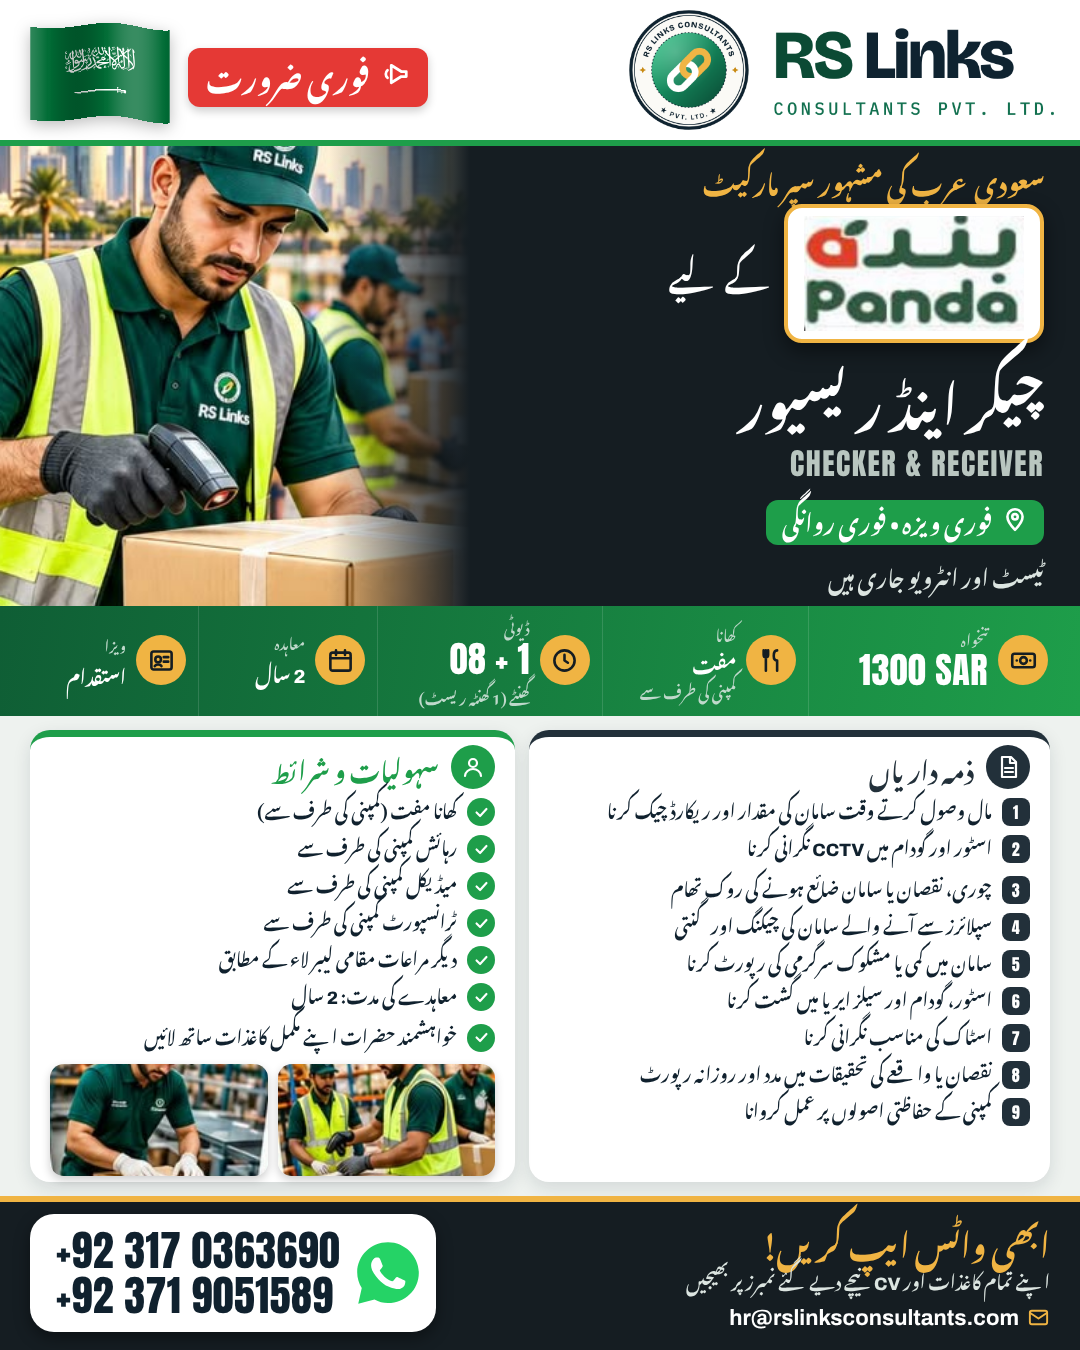
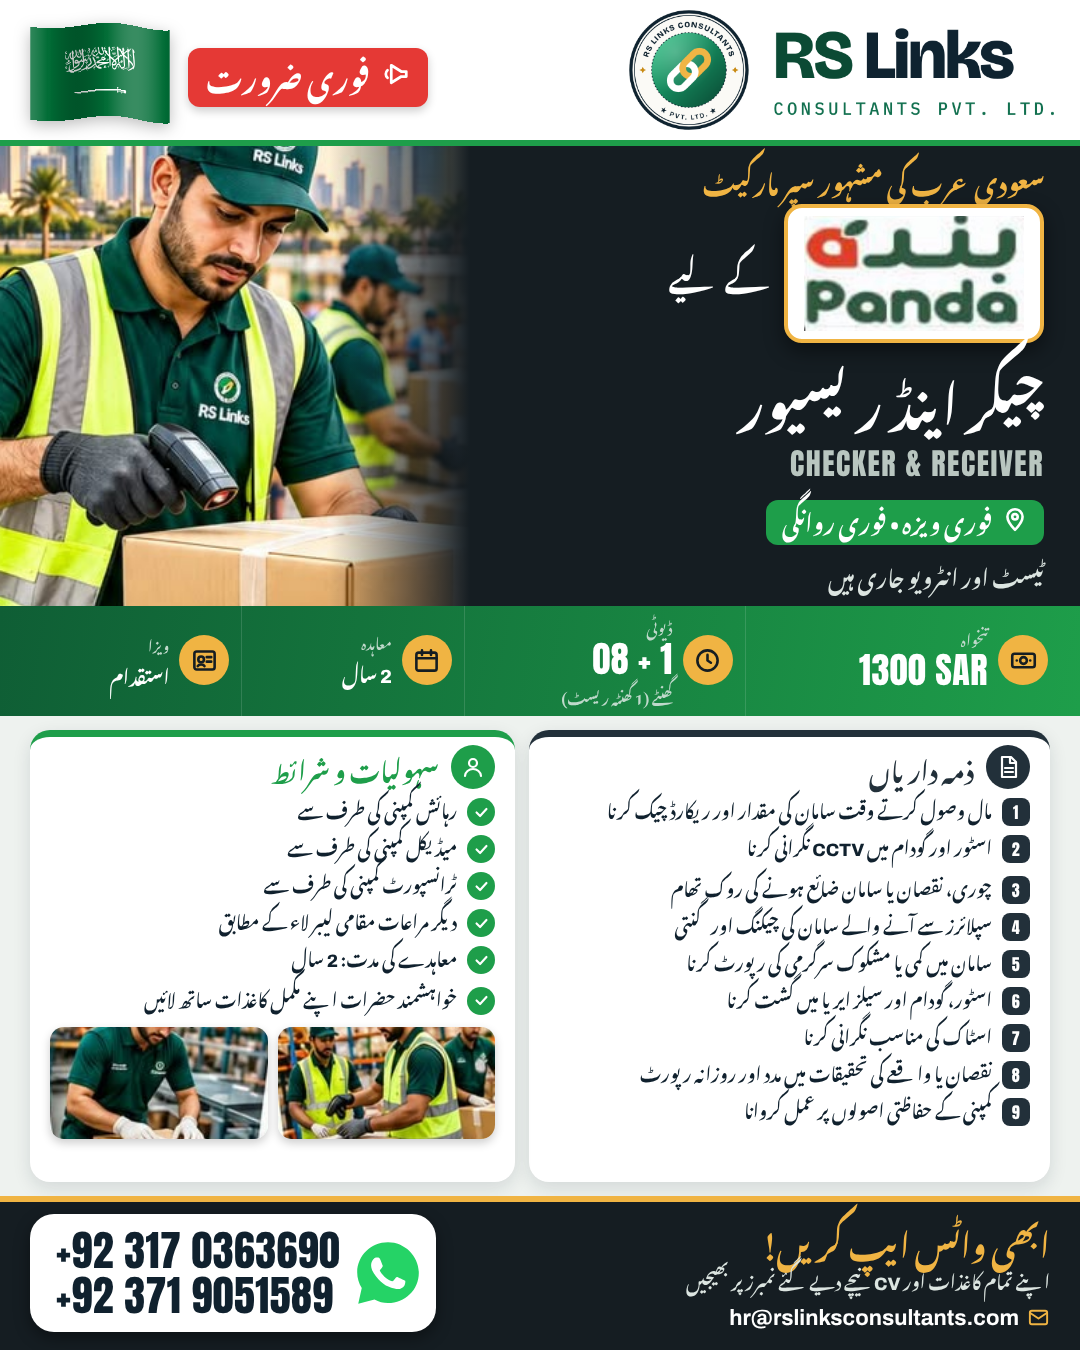
Panda Checker & Receiver ad: remove food
Claude-Session: https://claude.ai/code/session_01YJ5ofgU8QCiWTsYR9pvXG4

Changed region(s): [[0.0306, 0.5911, 0.4583, 0.8711], [0.2444, 0.4667, 0.7333, 0.5289], [0.0611, 0.4667, 0.2139, 0.5289]]

diff --git a/src/data/saudi_checker_receiver.py b/src/data/saudi_checker_receiver.py
@@ -1,6 +1,6 @@
 """Demand 2026-10-14: Saudi Arabia — Checker & Receiver for a well-known super market
 (demands/2026-10-14-saudi-checker-receiver/ref.jpg; employer name omitted per ad rules).
-Facts: urgent visa · immediate departure · salary 1300 riyal; food free (user 2026-10-14, replaces the 200 riyal food line) · duty 08 hours + 1 hour rest ·
+Facts: urgent visa · immediate departure · salary 1300 riyal; food removed entirely (user 2026-10-14) · duty 08 hours + 1 hour rest ·
 visa: Istiqdam · contract 2 years · accommodation, medical, transport by company · other benefits per
 local labour law · bring complete documents · test & interview ongoing · WhatsApp documents + CV.
 Duties as listed in the source. No post count / age in source. Urdu only."""
@@ -27,7 +27,6 @@ DATA = {
         "where": "فوری ویزہ • فوری روانگی",
         "opener": "ٹیسٹ اور انٹرویو جاری ہیں",
         "tiles": [("money", "تنخواہ", "1300 SAR", True, 36, "", 1.25),
-                  ("food", "کھانا", "مفت", False, 0, "کمپنی کی طرف سے", 1.0),
                   ("clock", "ڈیوٹی", "08 + 1", True, 36, "گھنٹے (1 گھنٹہ ریسٹ)", 1.1),
                   ("calendar", "معاہدہ", f"{N(2)} سال", False, 0, "", .85),
                   ("visa", "ویزا", "استقدام", False, 0, "", .85)],
@@ -42,7 +41,7 @@ DATA = {
                    "نقصان یا واقعے کی تحقیقات میں مدد اور روزانہ رپورٹ",
                    "کمپنی کے حفاظتی اصولوں پر عمل کروانا"],
         "req_title": "سہولیات و شرائط",
-        "reqs": ["کھانا مفت (کمپنی کی طرف سے)",
+        "reqs": [
                  "رہائش کمپنی کی طرف سے",
                  "میڈیکل کمپنی کی طرف سے",
                  "ٹرانسپورٹ کمپنی کی طرف سے",
